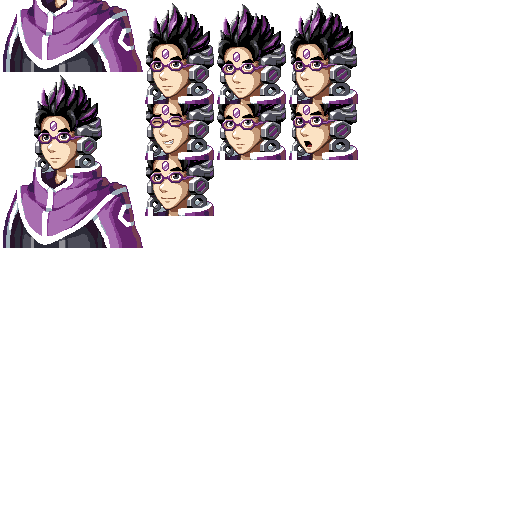
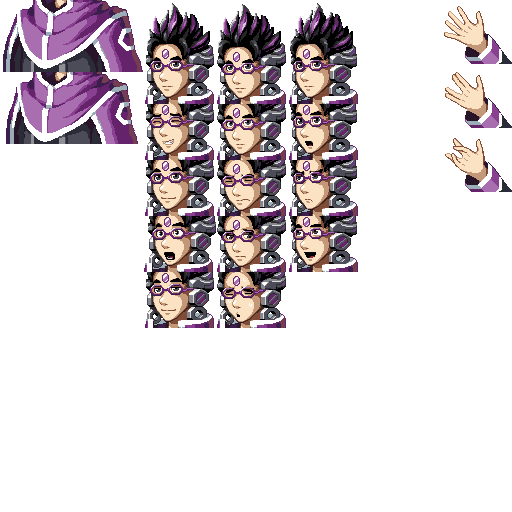
updated and fixed rendering

diff --git a/view.js b/view.js
@@ -67,16 +67,27 @@ function load() {
     }
 }
 
-function loadChar(data) {
-    char.image = new Image();
-    char.image.onload = load;
-    char.image.src = 'media/' + data.src;
+function imagePromise(path){
+  return new Promise(function(resolve, reject) {
+    const i = new Image();
+    i.onload = resolve(i);
+    i.src = path;
+  });
+}
+
+async function loadChar(data) {
+    char.image = {};
+    char.image[""] = await imagePromise('media/' + data.src);
+    await Promise.all(Object.entries(data.subImages||{}).map(async ([k,v]) => {
+      char.image[k] = await imagePromise('media/' + v);
+    }))
     char.parts = data.parts;
     char.exp = data.expressions;
     resize(document.getElementById("c-1"), data.width, data.height);
     for (var i = 0; i < char.parts.length; i++) {
         genRow(i);
     }
+    load();
 }
 
 function resize(canvas, w, h) {
@@ -133,21 +144,19 @@ function draw() {
     var canvas = document.getElementById("c-1");
     var ctx = canvas.getContext('2d');
     ctx.clearRect(0, 0, canvas.width, canvas.height)
+    var x = y = 0;
     for (var i = document.getElementById("body").checked?1:0; i < char.partsId.length; i++) {
         if (char.partsId[i]) {
-            drawPart(ctx, char.image, char.parts[i][char.partsId[i]]);
+            var part = char.parts[i][char.partsId[i]]
+            drawPart(ctx, char.image, part, x ,y);
+            x += part.subX||0;
+            y += part.subY||0;
         }
     }
 }
 
-function drawPart(ctx, image, p) {
-    if (!p.subX) {
-        p.subX = 0;
-    }
-    if (!p.subY) {
-        p.subY = 0;
-    }
-    ctx.drawImage(image, p.srcX, p.srcY, p.width, p.height, p.destX - p.subX, p.destY - p.subY, p.width, p.height);
+function drawPart(ctx, image, p, x, y) {
+    ctx.drawImage(image[p.img||""], p.srcX, p.srcY, p.width, p.height, p.destX + x, p.destY + y, p.width, p.height);
 }
 
 function animate(i) {
@@ -168,7 +177,7 @@ function init() {
         if (this.value == "null") {
             return;
         }
-        var path = 'data/' + this.value + '.json';
+        var path = 'data/' + this.value ;
         getChar(path);
 
     };

diff --git a/index.html b/index.html
@@ -29,18 +29,26 @@
 				<label>Character:</label>
 				<select id=char>
 					<option value="null">None</option>
-					<option value="buggy">Buggy</option>
-					<option value="captain">Captain</option>
-					<option value="carla">Carla</option>
-					<option value="designer">Designer</option>
-					<option value="emilie">Emilie</option>
-					<option value="fancyguy">Fancy Guy</option>
-					<option value="glasses">Glasses</option>
-					<option value="guild-leader">Guild Leader</option>
-					<option value="lea">Lea</option>
-					<option value="schneider">Schneider</option>
-					<option value="sergey">Sergey</option>
-					<option value="shizuka">Shiuzka</option>
+<option value="buggy.json">buggy.json</option>
+<option value="fancyguy.json">fancyguy.json</option>
+<option value="grumpy.json">grumpy.json</option>
+<option value="sergey.json">sergey.json</option>
+<option value="captain.json">captain.json</option>
+<option value="gautham-rl2.json">gautham-rl2.json</option>
+<option value="guild-leader.json">guild-leader.json</option>
+<option value="sergey-rl.json">sergey-rl.json</option>
+<option value="carla.json">carla.json</option>
+<option value="gautham-rl.json">gautham-rl.json</option>
+<option value="investor.json">investor.json</option>
+<option value="shady.json">shady.json</option>
+<option value="designer.json">designer.json</option>
+<option value="genius.json">genius.json</option>
+<option value="lea.json">lea.json</option>
+<option value="shizuka.json">shizuka.json</option>
+<option value="emilie.json">emilie.json</option>
+<option value="glasses.json">glasses.json</option>
+<option value="schneider.json">schneider.json</option>
+<option value="sidekick.json">sidekick.json</option>
 				</select>
 				<br>
 				<label>Expression:</label>
